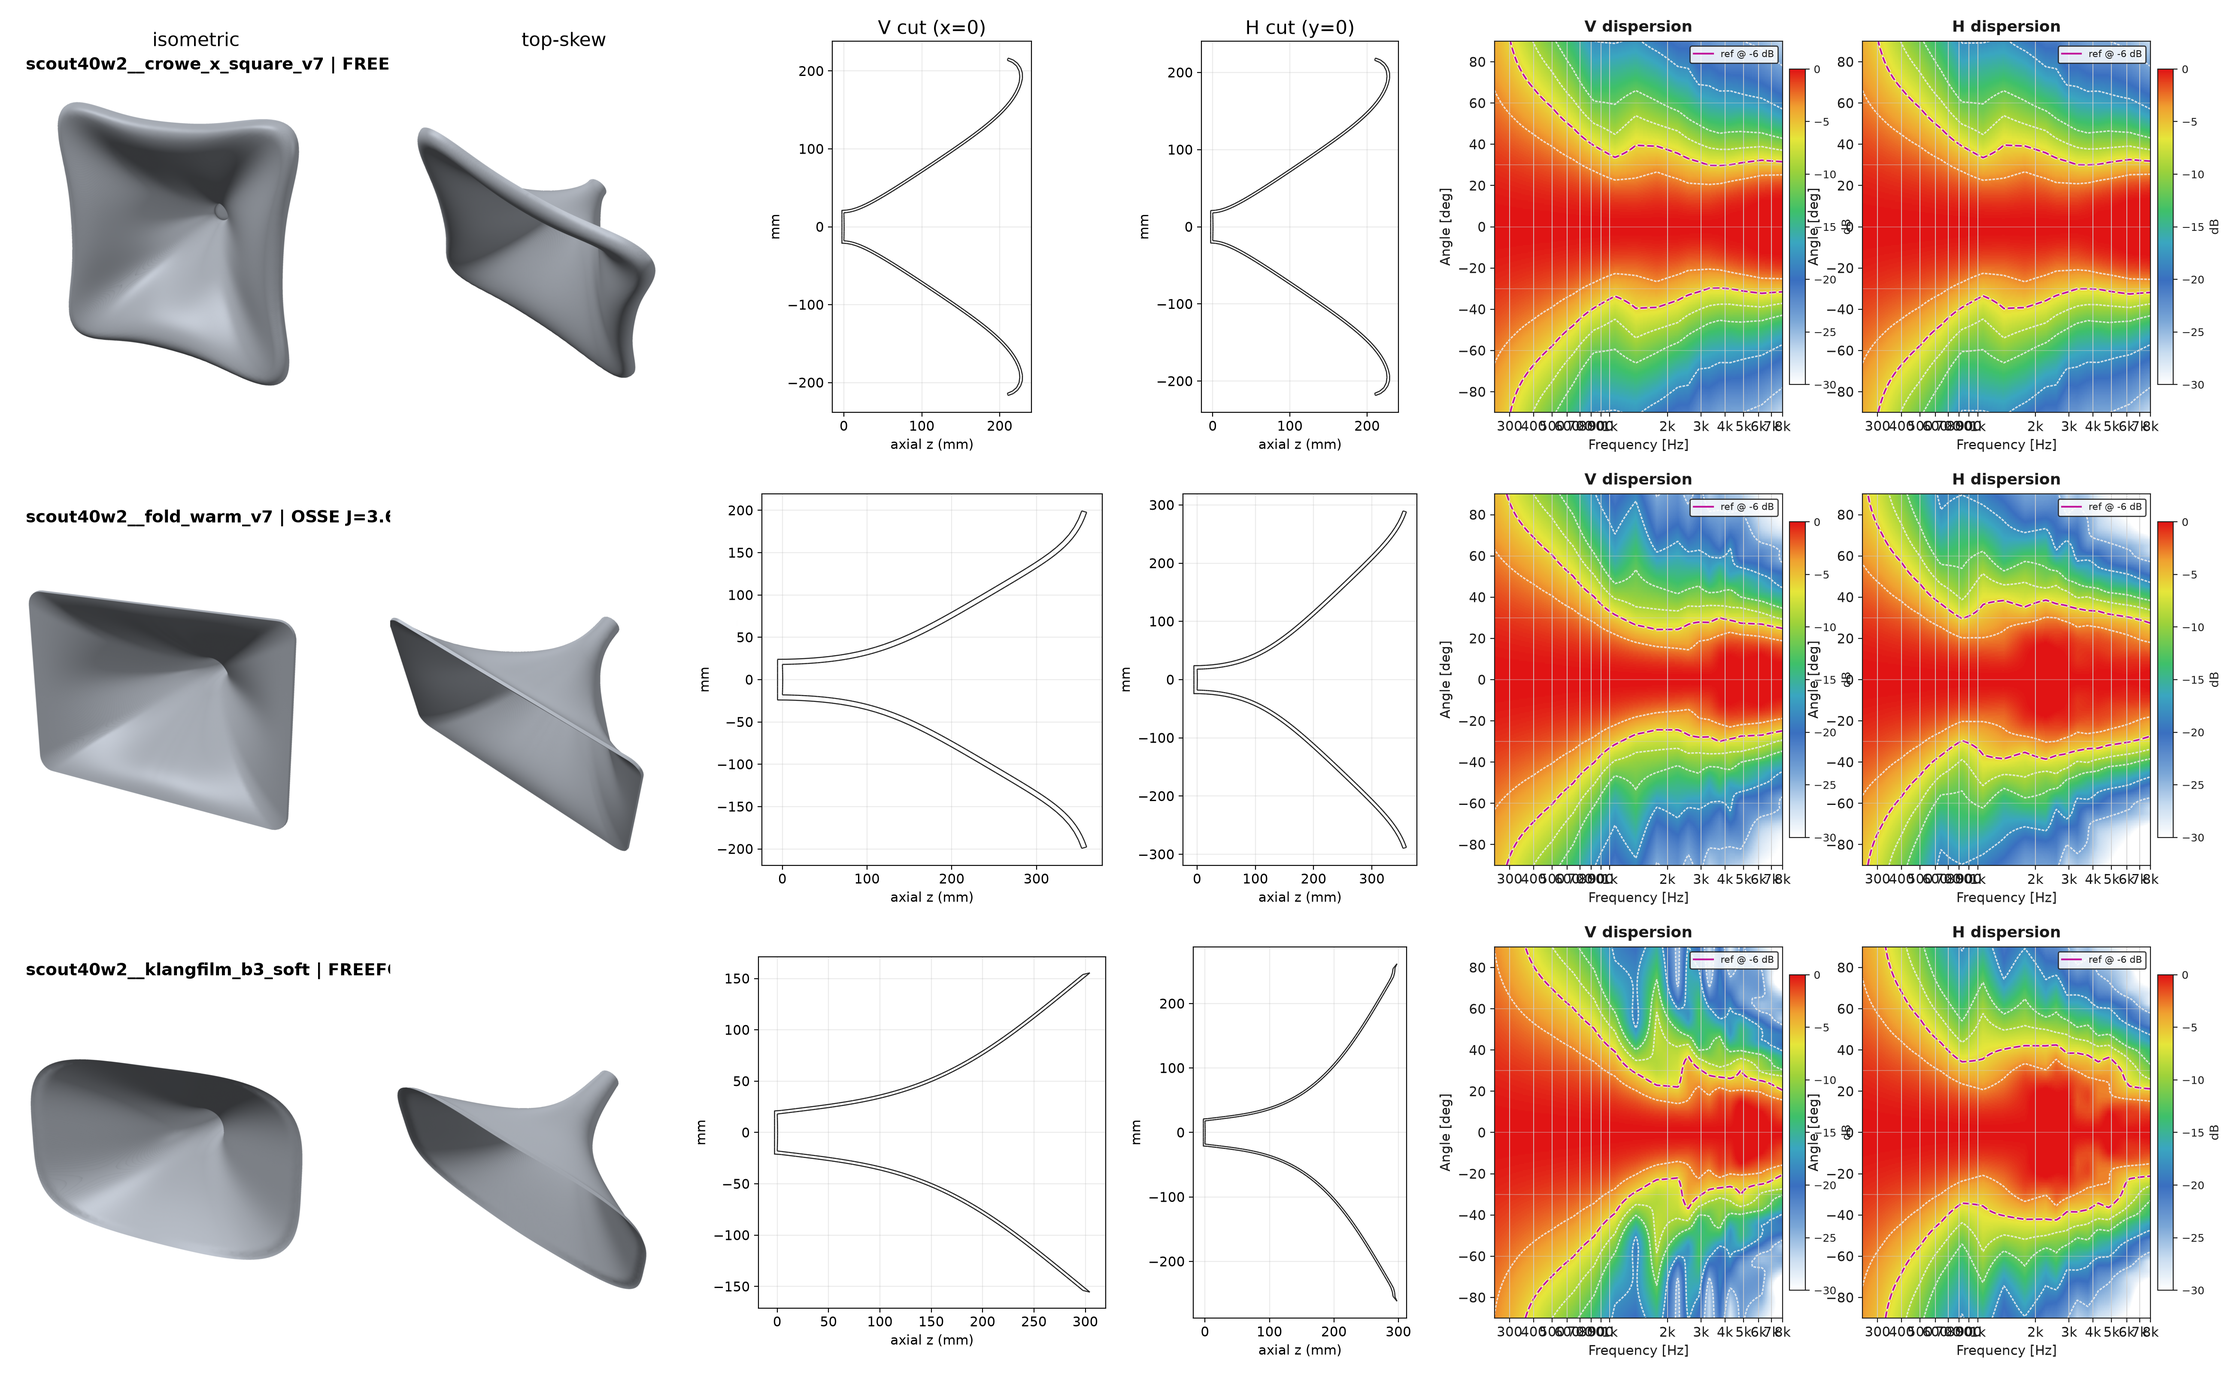
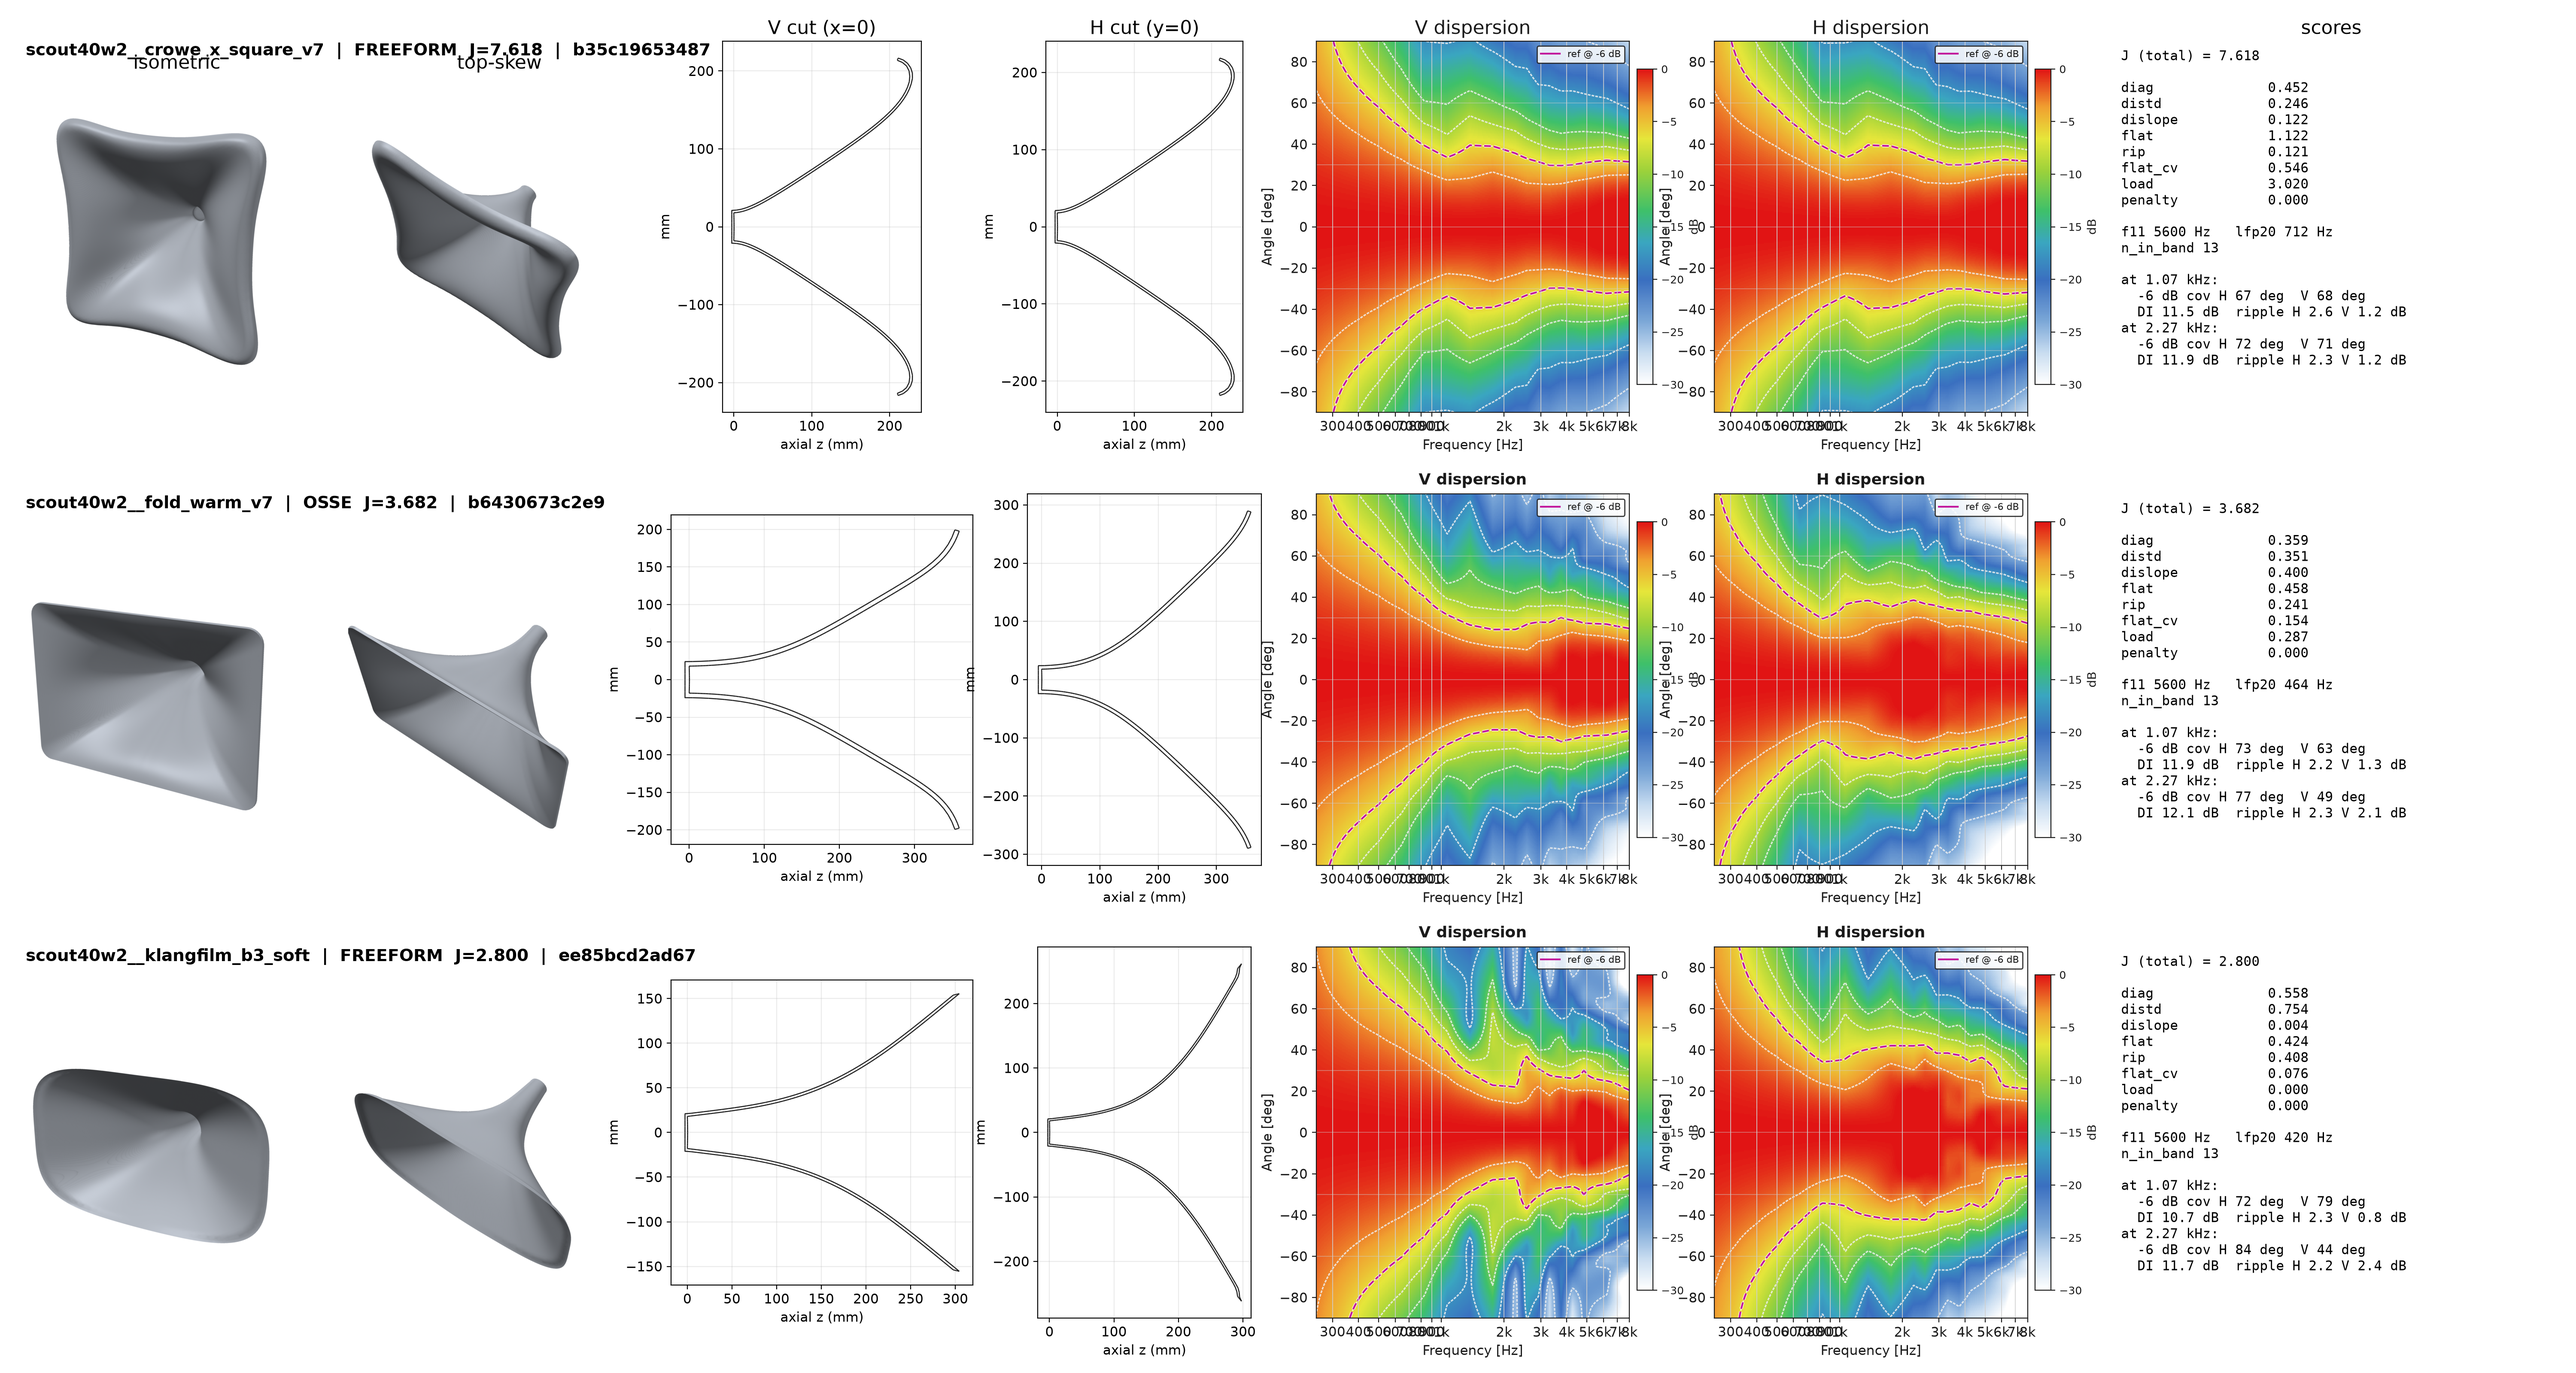
docs(renders): score column on last-24h horn contact sheets
- Re-rendered the 21 sheets (61 designs, 200 dpi) with a scores column:
  J total, saved best.json terms, f11/lfp20, and -6 dB coverage, DI and
  ripple at 1.07 and 2.27 kHz. Row labels moved above each row.
- Supersedes the score-less sheets in 6960f19. README and compose script updated.
- CONTINUITY and ISSUES updated; unrelated GUI edits from another lane not included.

diff --git a/docs/renders/2026-11-19-last-day-horns/compose_last_day.py b/docs/renders/2026-11-19-last-day-horns/compose_last_day.py
@@ -1,4 +1,4 @@
-import json, math
+import json, re
 from pathlib import Path
 import numpy as np
 import matplotlib
@@ -7,49 +7,90 @@ import matplotlib.pyplot as plt
 from matplotlib.collections import LineCollection
 from hornlab_plots._heatmap import prepare_heatmap_data, render_single_heatmap
 
-R = Path("scratch/last_day/r"); OUT = Path("scratch/last_day/sheets"); OUT.mkdir(parents=True, exist_ok=True)
+R = Path("scratch/last_day/r")
+OUT = Path("scratch/last_day/sheets")
+OUT.mkdir(parents=True, exist_ok=True)
 rows = [l.split() for l in Path("scratch/last_day/targets.txt").read_text().splitlines() if l.strip()]
 
-def info(run_dir, h):
+
+def info(run_dir):
     b = json.loads((Path(run_dir) / "best.json").read_text(encoding="utf-8"))
     r = json.loads((Path(run_dir) / "run.json").read_text(encoding="utf-8"))
     cmd = r.get("command", "")
     cfg = cmd.split("--config")[-1].split()[0] if "--config" in cmd else ""
     brief = Path(cfg).stem if cfg else Path(run_dir).name
-    return f"{brief}", b.get("family", "?"), b.get("objective", float("nan")), Path(run_dir).name
+    return brief, b.get("family", "?"), b.get("objective", float("nan")), Path(run_dir).name, b.get("terms", {})
+
 
 entries = []
 for run_dir, h in rows:
     if not (R / f"{h}_iso.png").exists():
         continue
-    brief, fam, J, runname = info(run_dir, h)
+    brief, fam, J, runname, terms = info(run_dir)
     z = np.load(Path(run_dir) / "designs" / h / "response.npz", allow_pickle=True)
-    entries.append(dict(h=h, brief=brief, fam=fam, J=J, run=runname, z=z))
+    met = json.loads((Path(run_dir) / "designs" / h / "metrics.json").read_text(encoding="utf-8"))
+    entries.append(dict(h=h, brief=brief, fam=fam, J=J, run=runname, z=z, terms=terms, met=met))
 
 entries.sort(key=lambda e: (e["brief"], e["J"]))
+
+KEYS = ["diag", "distd", "dislope", "di_roughness", "flat", "rip", "flat_cv", "cov_profile", "load", "penalty"]
+
+
+def score_lines(e):
+    T, M = e["terms"], e["met"]
+    fr = np.asarray(M["freqs_hz"])
+
+    def at(arr, f0):
+        return float(np.asarray(arr)[int(np.argmin(np.abs(fr - f0)))])
+
+    out = [f"J (total) = {T.get('total', e['J']):.3f}", ""]
+    out += [f"{k:<14}{T[k]:>9.3f}" for k in KEYS if isinstance(T.get(k), (int, float))]
+    out += ["", f"f11 {T.get('f11_hz', float('nan')):.0f} Hz   lfp20 {T.get('lfp20_hz', float('nan')):.0f} Hz",
+            f"n_in_band {int(T.get('n_in_band', 0))}", ""]
+    for f0, lab in ((1065, "1.07 kHz"), (2269, "2.27 kHz")):
+        out += [f"at {lab}:",
+                f"  -6 dB cov H {at(M['bw_h_deg'], f0):.0f} deg  V {at(M['bw_v_deg'], f0):.0f} deg",
+                f"  DI {at(M['di_db'], f0):.1f} dB  ripple H {at(M['ripple_h_db'], f0):.1f} V {at(M['ripple_v_db'], f0):.1f} dB"]
+    return out
+
+
 PER = 3
 for s in range(0, len(entries), PER):
     chunk = entries[s:s + PER]
-    fig = plt.figure(figsize=(26, 4.8 * len(chunk) + 1.6), facecolor="white")
-    gs = fig.add_gridspec(len(chunk), 6, left=0.01, right=0.99, top=0.97, bottom=0.04, wspace=0.06, hspace=0.22)
+    fig = plt.figure(figsize=(30, 4.8 * len(chunk) + 1.6), facecolor="white")
+    gs = fig.add_gridspec(len(chunk), 7, left=0.01, right=0.99, top=0.97, bottom=0.04,
+                          wspace=0.06, hspace=0.22, width_ratios=[1, 1, 1, 1, 1.25, 1.25, 1.45])
     for i, e in enumerate(chunk):
-        h = e["h"]; z = e["z"]
-        for j, (img, title) in enumerate([("iso", "isometric"), ("top", "top-skew")]):
-            ax = fig.add_subplot(gs[i, j]); ax.imshow(plt.imread(R / f"{h}_{img}.png")); ax.set_axis_off()
-            if j == 0: iso_ax = ax
-            if i == 0: ax.set_title(title, fontsize=16)
+        h = e["h"]
+        z = e["z"]
+        for j, img in enumerate(["iso", "top"]):
+            ax = fig.add_subplot(gs[i, j])
+            ax.imshow(plt.imread(R / f"{h}_{img}.png"))
+            ax.set_axis_off()
+            if j == 0:
+                iso_ax = ax
+            if i == 0:
+                ax.set_title("isometric" if j == 0 else "top-skew", fontsize=16)
         sec = np.load(R / f"{h}_sec.npz")
-        for j, (key, lab, xl) in enumerate([("vseg", "V cut (x=0)", "axial z (mm)"), ("hseg", "H cut (y=0)", "axial z (mm)")]):
+        for j, (key, lab) in enumerate([("vseg", "V cut (x=0)"), ("hseg", "H cut (y=0)")]):
             ax = fig.add_subplot(gs[i, 2 + j])
             seg = sec[key]
-            if len(seg): ax.add_collection(LineCollection(seg, colors="#222", linewidths=0.9))
-            ax.autoscale(); ax.set_aspect("equal"); ax.grid(alpha=0.25)
-            ax.tick_params(labelsize=11); ax.set_xlabel(xl, fontsize=11); ax.set_ylabel("mm", fontsize=11)
-            if i == 0: ax.set_title(lab, fontsize=16)
+            if len(seg):
+                ax.add_collection(LineCollection(seg, colors="#222", linewidths=0.9))
+            ax.autoscale()
+            ax.set_aspect("equal")
+            ax.grid(alpha=0.25)
+            ax.tick_params(labelsize=11)
+            ax.set_xlabel("axial z (mm)", fontsize=11)
+            ax.set_ylabel("mm", fontsize=11)
+            if i == 0:
+                ax.set_title(lab, fontsize=16)
         f = z["freqs_hz"]
-        for j, (key, akey, name) in enumerate([("spl_v_db", "v_angles_deg", "V dispersion"), ("spl_h_db", "h_angles_deg", "H dispersion")]):
+        for j, (key, akey, name) in enumerate([("spl_v_db", "v_angles_deg", "V dispersion"),
+                                               ("spl_h_db", "h_angles_deg", "H dispersion")]):
             ax = fig.add_subplot(gs[i, 4 + j])
-            ang = z[akey]; s_ = z[key] - z[key][:, [int(np.argmin(np.abs(ang)))]]
+            ang = z[akey]
+            s_ = z[key] - z[key][:, [int(np.argmin(np.abs(ang)))]]
             ia, fi, v = prepare_heatmap_data(ang, f, s_.T)
             render_single_heatmap(ax, fi, ia, v, name, theme="classic")
             ax.tick_params(labelsize=11)
@@ -58,12 +99,17 @@ for s in range(0, len(entries), PER):
             except AttributeError:
                 pass
             ax.xaxis.get_offset_text().set_visible(False)
-        fig.text(0.01, 0.955 - i * (0.94 / len(chunk)) , "", fontsize=1)
-        # row label placed on the isometric panel's top-left
-        axl = iso_ax
-        axl.text(0.01, 0.99, f"{e['brief']} | {e['fam']} J={e['J']:.3f} | {h}", transform=axl.transAxes,
-                 fontsize=14, weight="bold", va="top", ha="left",
-                 bbox=dict(facecolor="white", edgecolor="none", alpha=0.85, pad=2))
+            if i == 0:
+                ax.set_title(name, fontsize=16)
+        axs = fig.add_subplot(gs[i, 6])
+        axs.set_axis_off()
+        axs.text(0.02, 0.98, "\n".join(score_lines(e)), transform=axs.transAxes,
+                 fontsize=11, family="monospace", va="top", ha="left")
+        if i == 0:
+            axs.set_title("scores", fontsize=16)
+        row_top = iso_ax.get_position().y1
+        fig.text(0.01, row_top + 0.012, f"{e['brief']}  |  {e['fam']}  J={e['J']:.3f}  |  {h}",
+                 fontsize=14, weight="bold", va="bottom", ha="left")
     part = s // PER + 1
     fig.savefig(OUT / f"last_day_sheet_{part:02d}.png", dpi=200, facecolor="white")
     plt.close(fig)

diff --git a/docs/renders/2026-11-19-last-day-horns/README.md b/docs/renders/2026-11-19-last-day-horns/README.md
@@ -1,7 +1,8 @@
 # Last-24h solved horns: contact sheets
 
 61 unique best designs from runs dated 2026-11-18 (after 14:00 local) through 2026-11-19, each with a completed solve (`ok: true`, balloon DI). Sheets are 200 dpi, three designs per sheet, sorted by brief then balloon J.
-Columns per row: isometric, top-skew (camera from +y), V cut (x=0), H cut (y=0), V dispersion, H dispersion.
+Columns per row: isometric, top-skew (camera from +y), V cut (x=0), H cut (y=0), V dispersion, H dispersion, scores.
+Scores column: J (total), the saved score terms from `best.json` (not additive to J), f11 and lfp20, and -6 dB coverage, DI and ripple at 1.07 kHz and 2.27 kHz from `metrics.json`.
 J is comparable only within a brief. Regenerate with `render_last_day.py` (viz env, pyvista) then `compose_last_day.py` (project venv).
 
 - **last_day_sheet_01.png**

diff --git a/docs/CONTINUITY.md b/docs/CONTINUITY.md
@@ -1,5 +1,12 @@
 # CONTINUITY
 
+## 2026-11-19 - Last-24h horn sheets: score column added (renders)
+
+- Sheets re-rendered at 200 dpi with a scores column per design: J (total), the saved `best.json` terms
+  (not additive to J), f11 and lfp20, and -6 dB coverage, DI and ripple at 1.07 and 2.27 kHz. Row labels
+  moved above each row so they are not clipped. Files and per-sheet design list:
+  `docs/renders/2026-11-19-last-day-horns/README.md`. Supersedes the score-less sheets in `6960f19`.
+
 ## 2026-11-19 - Last-24h solved horns: contact sheets (renders only, no solves)
 
 - **61 unique best designs** from runs dated 2026-11-18 14:00 local onward, each with a completed solve

diff --git a/docs/ISSUES.md b/docs/ISSUES.md
@@ -1,5 +1,10 @@
 # ISSUES
 
+## 2026-11-19 - Last-24h horn sheets: score column added
+
+- DONE (render): score column on all 21 sheets; see `docs/renders/2026-11-19-last-day-horns/README.md`.
+- OPEN: the sheet-1 stray letter next to the first V cut was not identified; not investigated further.
+
 ## 2026-11-19 - Last-24h solved horns rendered (contact sheets)
 
 - DONE (render): 61 unique designs, 21 sheets at 200 dpi, `docs/renders/2026-11-19-last-day-horns/`.
